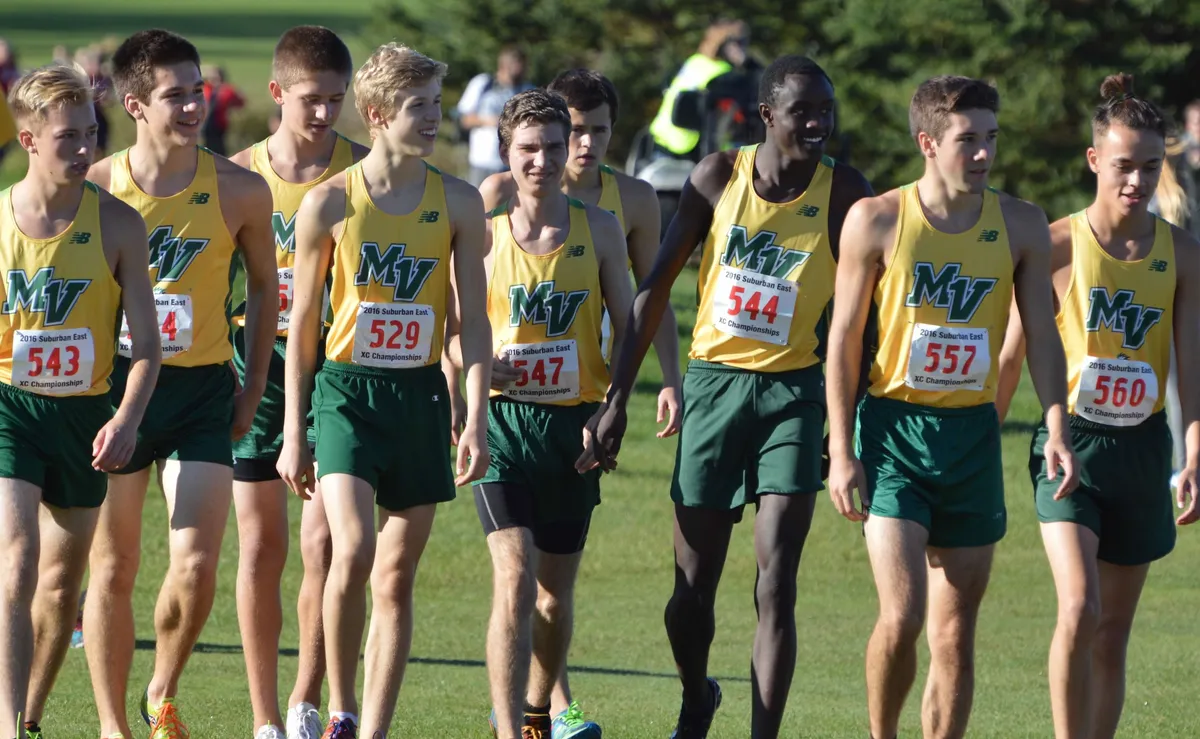
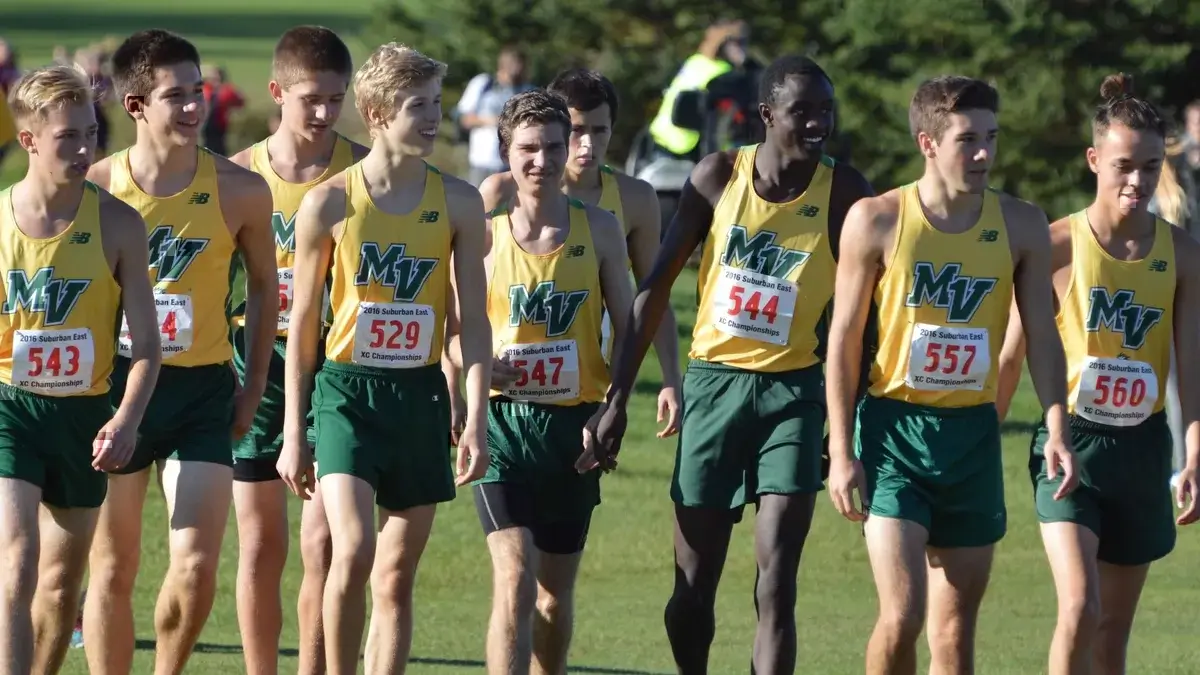
resizes images to 16:9 start

diff --git a/src/components/Updates/updates.module.css b/src/components/Updates/updates.module.css
@@ -1,63 +1,35 @@
-/* .update:after {
-    content: '';
-    line-height: normal;
-    display: flex;
-    line-height: 1rem;
-    position: block;
-    width: 100%;
-    height: 2rem;
-    left: 0;
-    top: 0;
-    opacity: 100;
-    transition: width 3s linear, opacity 0.5s ease 1s;
-  } */
-
-  .update {
+.update {
     min-width: 60px;
-  }
+}
 
-  /* .skeleton {
-    animation: skeleton-loading 2s linear alternate infinite;
-    width: 80%;
-  }
-   */
-  /* @keyframes skeleton-loading {
-    0% {
-      background-color: rgba(129, 129, 129, 0.99);
-    }
+/* https://github.com/dvtng/react-loading-skeleton/blob/master/src/skeleton.css */
+@keyframes react-loading-skeleton {
     100% {
-      background-color: rgba(187, 187, 187, 0.95);
+        transform: translateX(100%);
     }
-  } */
+}
 
-  /* https://github.com/dvtng/react-loading-skeleton/blob/master/src/skeleton.css */
-  @keyframes react-loading-skeleton {
-    100% {
-      transform: translateX(100%);
-    }
-  }
-  
-  .react-loading-skeleton {
+.react-loading-skeleton {
     --base-color: gray;
     --highlight-color: #f5f5f5;
     --animation-duration: 1.5s;
     --animation-direction: normal;
     --pseudo-element-display: block; /* Enable animation */
-  
+
     background-color: var(--base-color);
-  
+
     width: 100%;
     border-radius: 0.25rem;
     display: inline-flex;
     height: 1.5rem;
-  
+
     position: relative;
     user-select: none;
     overflow: hidden;
     z-index: 1; /* Necessary for overflow: hidden to work correctly in Safari */
-  }
-  
-  .react-loading-skeleton::after {
+}
+
+.react-loading-skeleton::after {
     content: ' ';
     display: var(--pseudo-element-display);
     position: absolute;
@@ -67,28 +39,28 @@
     height: 100%;
     background-repeat: no-repeat;
     background-image: linear-gradient(
-      90deg,
-      var(--base-color),
-      var(--highlight-color),
-      var(--base-color)
+        90deg,
+        var(--base-color),
+        var(--highlight-color),
+        var(--base-color)
     );
     transform: translateX(-100%);
-  
+
     animation-name: react-loading-skeleton;
     animation-direction: var(--animation-direction);
     animation-duration: var(--animation-duration);
     animation-timing-function: ease-in-out;
     animation-iteration-count: infinite;
-  }
-  
-  @keyframes react-loading-skeleton {
-    100% {
-      transform: translateX(100%);
-    }
-  }
+}
 
-  @media (prefers-reduced-motion) {
-    .react-loading-skeleton {
-      --pseudo-element-display: none; /* Disable animation */
+@keyframes react-loading-skeleton {
+    100% {
+        transform: translateX(100%);
     }
-  }
+}
+
+@media (prefers-reduced-motion) {
+    .react-loading-skeleton {
+        --pseudo-element-display: none; /* Disable animation */
+    }
+}

diff --git a/src/components/Carousel/Carousel.tsx b/src/components/Carousel/Carousel.tsx
@@ -27,6 +27,8 @@ const ThreePeatLarge = './images/three-peat-large.webp'
 import clsx from 'clsx'
 
 // note missing rosemoutn tshirts, five-peat files
+// resize images to 16:9 here: https://www.xconvert.com/crop-webp
+// compress here: https://tinypng.com/
 
 const imageList = [
     {
@@ -53,13 +55,7 @@ const Carousel = () => {
     const [imageNum, setImageNum] = useState(0)
 
     const imageSrcs = imageList.map((img, index) => (
-        <img
-            srcset={`${img.small} 400w, ${img.medium} 800w, ${img.large} 1200w`}
-            sizes="(max-width:400px) 400px, (max-width:800px) 800px"
-            src={img.medium}
-            width="100%"
-            object-fit="contain"
-            alt="team photo"
+        <picture
             class={clsx(
                 'transition-opacity duration-1000 ease-in-out max-w-full md:max-w-3xl',
                 {
@@ -69,7 +65,45 @@ const Carousel = () => {
                     visible: index === imageNum,
                 }
             )}
-        />
+        >
+            <source
+                media="(max-width: 425px)"
+                srcset={img.small}
+                width="400"
+                height="225"
+            />
+            <source
+                media="(min-width: 800px)"
+                srcset={img.medium}
+                width="800"
+                height="450"
+            />
+            <source
+                media="(min-width: 801px)"
+                srcset={img.large}
+                width="1200"
+                height="675"
+            />
+            <img src={img.medium} alt="Team photo" width="800" height="450" />
+        </picture>
+        // <img
+        //     srcset={`${img.small} 400w, ${img.medium} 800w, ${img.large} 1200w`}
+        //     sizes="(max-width:425px) 400px, (max-width:800px) 800px"
+        //     src={img.medium}
+        //     width="auto"
+        //     // width="100%"
+        //     object-fit="contain"
+        //     alt="team photo"
+        // class={clsx(
+        //     'transition-opacity duration-1000 ease-in-out max-w-full md:max-w-3xl',
+        //     {
+        //         'opacity-100': index === imageNum,
+        //         'opacity-0': index !== imageNum,
+        //         invisible: index !== imageNum,
+        //         visible: index === imageNum,
+        //     }
+        // )}
+        // />
     ))
 
     useEffect(() => {
